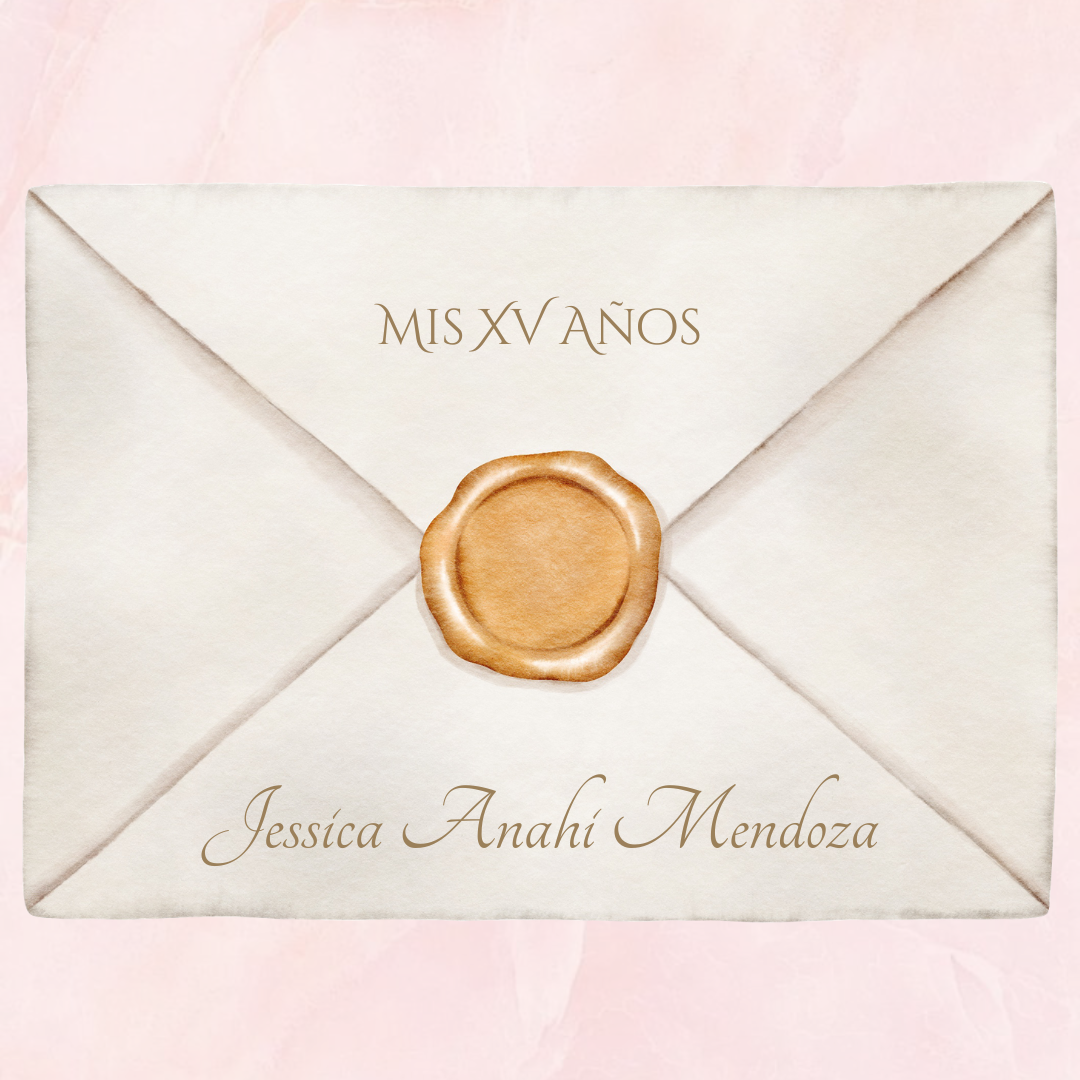
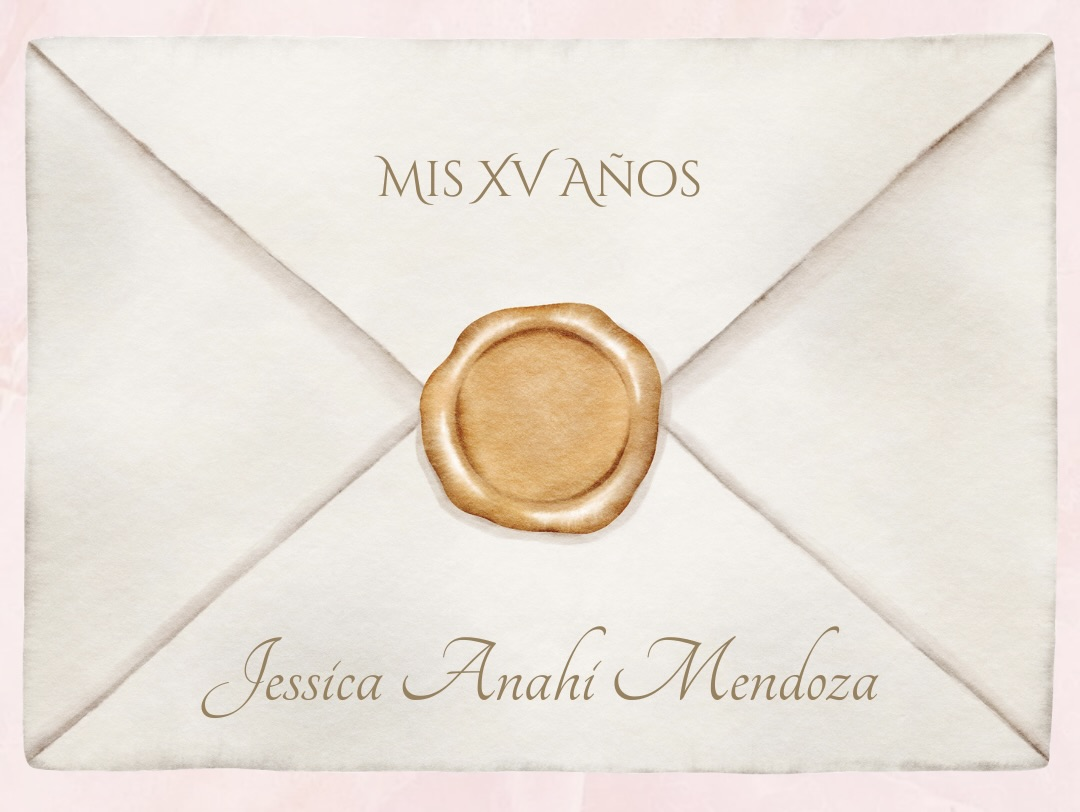
Update cover image crop and matching OG dimensions
envelope.png re-exported at 1080x812 (was 1080x1080) — same content,
tighter vertical crop. Synced og:image:width/height to match.

diff --git a/a7f3k9/index.html b/a7f3k9/index.html
@@ -15,7 +15,7 @@
 <meta property="og:description" content="Invitación — Mis XV Años, Jessica Anahí Mendoza">
 <meta property="og:image" content="https://misquincejessica.com/assets/img/envelope.png">
 <meta property="og:image:width" content="1080">
-<meta property="og:image:height" content="1080">
+<meta property="og:image:height" content="812">
 <meta name="twitter:card" content="summary_large_image">
 <meta name="twitter:title" content="Mis Quince Jessica">
 <meta name="twitter:description" content="Invitación — Mis XV Años, Jessica Anahí Mendoza">
